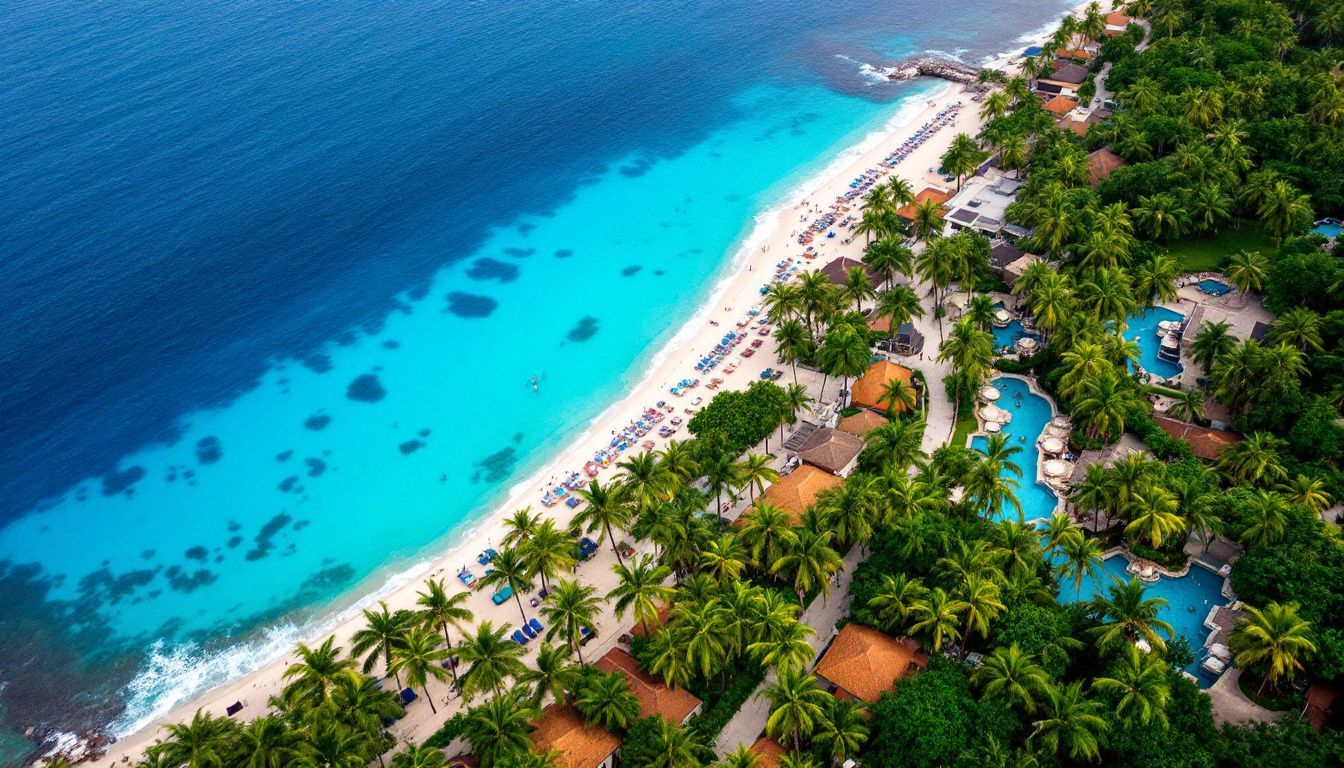
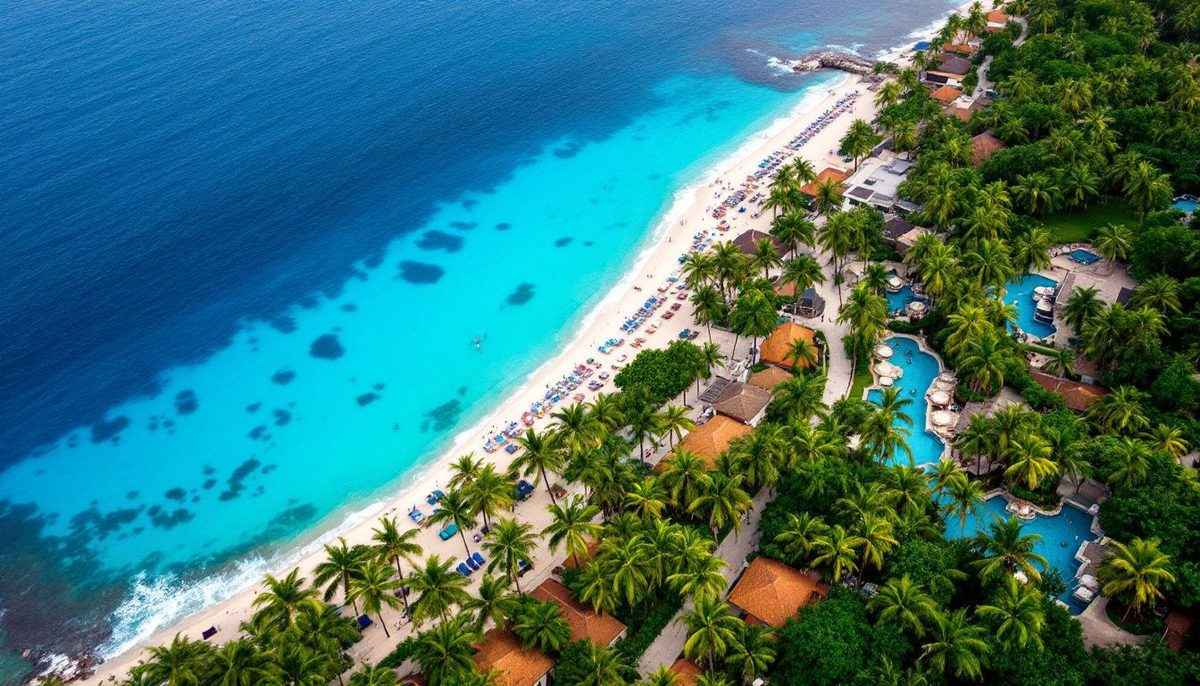
Optimize images (-24MB) and update service worker to v1.1.0
Compress and resize 33 images over 200KB using Pillow (max 1200x800,
JPEG q82). Convert 6 large PNGs to JPEG (card-map, checklist-entity,
immigration-digital-nomad, overview-economy-gdp, sector-energy,
startups-ecommerce). Update all HTML refs for changed extensions.
Bump SW cache to v1.1.0 and add missing pages (immigration, expats,
realestate, startups). Total images dir: 35MB -> 9.2MB.

diff --git a/tr/startups.html b/tr/startups.html
@@ -718,7 +718,7 @@
           <!-- E-TİCARET & DİJİTAL TİCARET -->
           <div id="ecommerce" style="margin-bottom:40px;">
             <h2 style="margin-bottom:16px;">E-Ticaret &amp; Dijital Ticaret</h2>
-            <img src="../assets/images/startups-ecommerce.png" alt="E-ticaret ve mobil alışveriş" class="section-image" style="max-height:260px;object-fit:cover;margin-bottom:24px;" loading="lazy">
+            <img src="../assets/images/startups-ecommerce.jpg" alt="E-ticaret ve mobil alışveriş" class="section-image" style="max-height:260px;object-fit:cover;margin-bottom:24px;" loading="lazy">
             <p>Saint Lucia&rsquo;nın e-ticaret ekosistemi hızla gelişmekte olup <strong>172 &ccedil;evrimi&ccedil;i mağaza</strong>, artan internet penetrasyonu (%70,1) ve hem devlet destekli platformlar hem de &ouml;zel sekt&ouml;r &ccedil;&ouml;z&uuml;mleri yerel işletmeler i&ccedil;in yeni kanallar oluşturmaktadır.</p>
 
             <div class="info-box success" style="margin-bottom:24px;">

diff --git a/startups.html b/startups.html
@@ -725,7 +725,7 @@
           <!-- E-COMMERCE & DIGITAL TRADE -->
           <div id="ecommerce" style="margin-bottom:40px;">
             <h2 style="margin-bottom:16px;">E-Commerce &amp; Digital Trade</h2>
-            <img src="assets/images/startups-ecommerce.png" alt="E-commerce and mobile shopping" class="section-image" style="max-height:260px;object-fit:cover;margin-bottom:24px;" loading="lazy">
+            <img src="assets/images/startups-ecommerce.jpg" alt="E-commerce and mobile shopping" class="section-image" style="max-height:260px;object-fit:cover;margin-bottom:24px;" loading="lazy">
             <p>Saint Lucia&rsquo;s e-commerce ecosystem is developing rapidly, with <strong>172 online stores</strong>, growing internet penetration (70.1%), and both government-backed platforms and private-sector solutions creating new channels for local businesses.</p>
 
             <div class="info-box success" style="margin-bottom:24px;">

diff --git a/tr/immigration.html b/tr/immigration.html
@@ -472,7 +472,7 @@
           <!-- DİJİTAL GÖÇEBE VİZESİ -->
           <div id="digital-nomad" style="margin-bottom:40px;">
             <h2 style="margin-bottom:16px;">Dijital G&ouml;&ccedil;ebe Vizesi &mdash; &ldquo;Live It&rdquo; Program&#305;</h2>
-            <img src="../assets/images/immigration-digital-nomad.png" alt="Karayip sahilinden uzaktan çalışan dijital göçebe" class="section-image" style="max-height:260px;object-fit:cover;margin-bottom:24px;" loading="lazy">
+            <img src="../assets/images/immigration-digital-nomad.jpg" alt="Karayip sahilinden uzaktan çalışan dijital göçebe" class="section-image" style="max-height:260px;object-fit:cover;margin-bottom:24px;" loading="lazy">
             <div class="card" style="margin-bottom:20px;">
               <div class="card-header" style="background:#2980b9;">
                 <span class="icon">&#128187;</span>

diff --git a/immigration.html b/immigration.html
@@ -521,7 +521,7 @@
           <!-- DIGITAL NOMAD VISA -->
           <div id="digital-nomad" style="margin-bottom:40px;">
             <h2 style="margin-bottom:16px;">Digital Nomad Visa &mdash; &ldquo;Live It&rdquo; Programme</h2>
-            <img src="assets/images/immigration-digital-nomad.png" alt="Digital nomad working remotely from a Caribbean beach" class="section-image" style="max-height:260px;object-fit:cover;margin-bottom:24px;" loading="lazy">
+            <img src="assets/images/immigration-digital-nomad.jpg" alt="Digital nomad working remotely from a Caribbean beach" class="section-image" style="max-height:260px;object-fit:cover;margin-bottom:24px;" loading="lazy">
             <div class="card" style="margin-bottom:20px;">
               <div class="card-header" style="background:#2980b9;">
                 <span class="icon">&#128187;</span>

diff --git a/sw.js b/sw.js
@@ -1,7 +1,7 @@
 // St. Lucia Business Guide - Service Worker
 // Cache-first for assets, Network-first for HTML
 
-const CACHE_VERSION = 'v1.0.0';
+const CACHE_VERSION = 'v1.1.0';
 const CACHE_NAME = `stlucia-guide-${CACHE_VERSION}`;
 const OFFLINE_PAGE = '/stlucia/offline.html';
 
@@ -14,7 +14,9 @@ const STATIC_ASSETS = [
   '/stlucia/legal.html',
   '/stlucia/sectors.html',
   '/stlucia/cbi.html',
+  '/stlucia/immigration.html',
   '/stlucia/living.html',
+  '/stlucia/expats.html',
   '/stlucia/events.html',
   '/stlucia/map.html',
   '/stlucia/directory.html',
@@ -23,6 +25,8 @@ const STATIC_ASSETS = [
   '/stlucia/trade.html',
   '/stlucia/checklist.html',
   '/stlucia/government.html',
+  '/stlucia/realestate.html',
+  '/stlucia/startups.html',
   '/stlucia/offline.html',
   '/stlucia/assets/css/style.css',
   '/stlucia/assets/js/app.js',

diff --git a/tr/resources.html b/tr/resources.html
@@ -309,7 +309,7 @@
           <!-- ARAŞTIRMA & VERİLER -->
           <div id="research" style="margin-bottom:40px;">
             <h2 style="margin-bottom:16px;">Araştırma &amp; Ekonomik Veriler</h2>
-            <img src="../assets/images/overview-economy-gdp.png" alt="Karayipler için ekonomik veriler ve istatistikler" style="float:right;margin:0 0 16px 20px;width:280px;border-radius:var(--radius-lg);box-shadow:var(--shadow);" loading="lazy">
+            <img src="../assets/images/overview-economy-gdp.jpg" alt="Karayipler için ekonomik veriler ve istatistikler" style="float:right;margin:0 0 16px 20px;width:280px;border-radius:var(--radius-lg);box-shadow:var(--shadow);" loading="lazy">
             <div class="table-wrapper">
               <table>
                 <tr><th>Kaynak</th><th>URL</th><th>Açıklama</th></tr>

diff --git a/resources.html b/resources.html
@@ -307,7 +307,7 @@
           <!-- RESEARCH & DATA -->
           <div id="research" style="margin-bottom:40px;">
             <h2 style="margin-bottom:16px;">Research &amp; Economic Data</h2>
-            <img src="assets/images/overview-economy-gdp.png" alt="Economic data and statistics for the Caribbean" style="float:right;margin:0 0 16px 20px;width:280px;border-radius:var(--radius-lg);box-shadow:var(--shadow);" loading="lazy">
+            <img src="assets/images/overview-economy-gdp.jpg" alt="Economic data and statistics for the Caribbean" style="float:right;margin:0 0 16px 20px;width:280px;border-radius:var(--radius-lg);box-shadow:var(--shadow);" loading="lazy">
             <div class="table-wrapper">
               <table>
                 <tr><th>Resource</th><th>URL</th><th>Description</th></tr>

diff --git a/tr/overview.html b/tr/overview.html
@@ -204,7 +204,7 @@
           <!-- EKONOMI -->
           <div id="economy" style="margin-bottom:40px;">
             <h2 style="margin-bottom:16px;">Ekonomi</h2>
-            <img src="../assets/images/overview-economy-gdp.png" alt="Karayip ekonomik büyümesi ve GSYİH eğilimleri" class="section-image" style="max-height:260px;object-fit:cover;margin-bottom:24px;" loading="lazy">
+            <img src="../assets/images/overview-economy-gdp.jpg" alt="Karayip ekonomik büyümesi ve GSYİH eğilimleri" class="section-image" style="max-height:260px;object-fit:cover;margin-bottom:24px;" loading="lazy">
             <div class="card" style="margin-bottom:20px;">
               <div class="card-body">
                 <div class="table-wrapper">

diff --git a/overview.html b/overview.html
@@ -208,7 +208,7 @@
           <!-- ECONOMY -->
           <div id="economy" style="margin-bottom:40px;">
             <h2 style="margin-bottom:16px;">Economy</h2>
-            <img src="assets/images/overview-economy-gdp.png" alt="Caribbean economic growth and GDP trends" class="section-image" style="max-height:260px;object-fit:cover;margin-bottom:24px;" loading="lazy">
+            <img src="assets/images/overview-economy-gdp.jpg" alt="Caribbean economic growth and GDP trends" class="section-image" style="max-height:260px;object-fit:cover;margin-bottom:24px;" loading="lazy">
             <div class="card" style="margin-bottom:20px;">
               <div class="card-body">
                 <div class="table-wrapper">

diff --git a/tr/sectors.html b/tr/sectors.html
@@ -805,7 +805,7 @@
             <h3>Yenilenebilir Enerji</h3>
           </div>
           <div class="card-body">
-            <img src="../assets/images/sector-energy.png" alt="Karayip tropikal ortamda g�nes panelleri" class="img-float-right" loading="lazy">
+            <img src="../assets/images/sector-energy.jpg" alt="Karayip tropikal ortamda g�nes panelleri" class="img-float-right" loading="lazy">
             <div style="display:flex;gap:16px;flex-wrap:wrap;margin-bottom:16px;">
               <span class="badge badge-primary">~%3 yenilenebilir payi</span>
               <span class="badge badge-accent">%92 fosil yakita bagimli</span>

diff --git a/sectors.html b/sectors.html
@@ -812,7 +812,7 @@
             <h3>Renewable Energy</h3>
           </div>
           <div class="card-body">
-            <img src="assets/images/sector-energy.png" alt="Solar panels in Caribbean tropical setting" class="img-float-right" loading="lazy">
+            <img src="assets/images/sector-energy.jpg" alt="Solar panels in Caribbean tropical setting" class="img-float-right" loading="lazy">
             <div style="display:flex;gap:16px;flex-wrap:wrap;margin-bottom:16px;">
               <span class="badge badge-primary">~3% renewable share</span>
               <span class="badge badge-accent">95%+ fossil fuel dependent</span>

diff --git a/checklist.html b/checklist.html
@@ -534,7 +534,7 @@
               </div>
             </div>
 
-            <img src="assets/images/checklist-entity-formation.png" alt="Legal entity formation and company registration" style="float:right;margin:0 0 16px 20px;width:280px;border-radius:var(--radius-lg);box-shadow:var(--shadow);" loading="lazy">
+            <img src="assets/images/checklist-entity-formation.jpg" alt="Legal entity formation and company registration" style="float:right;margin:0 0 16px 20px;width:280px;border-radius:var(--radius-lg);box-shadow:var(--shadow);" loading="lazy">
 
             <div class="checklist">
               <!-- Step 5 -->
